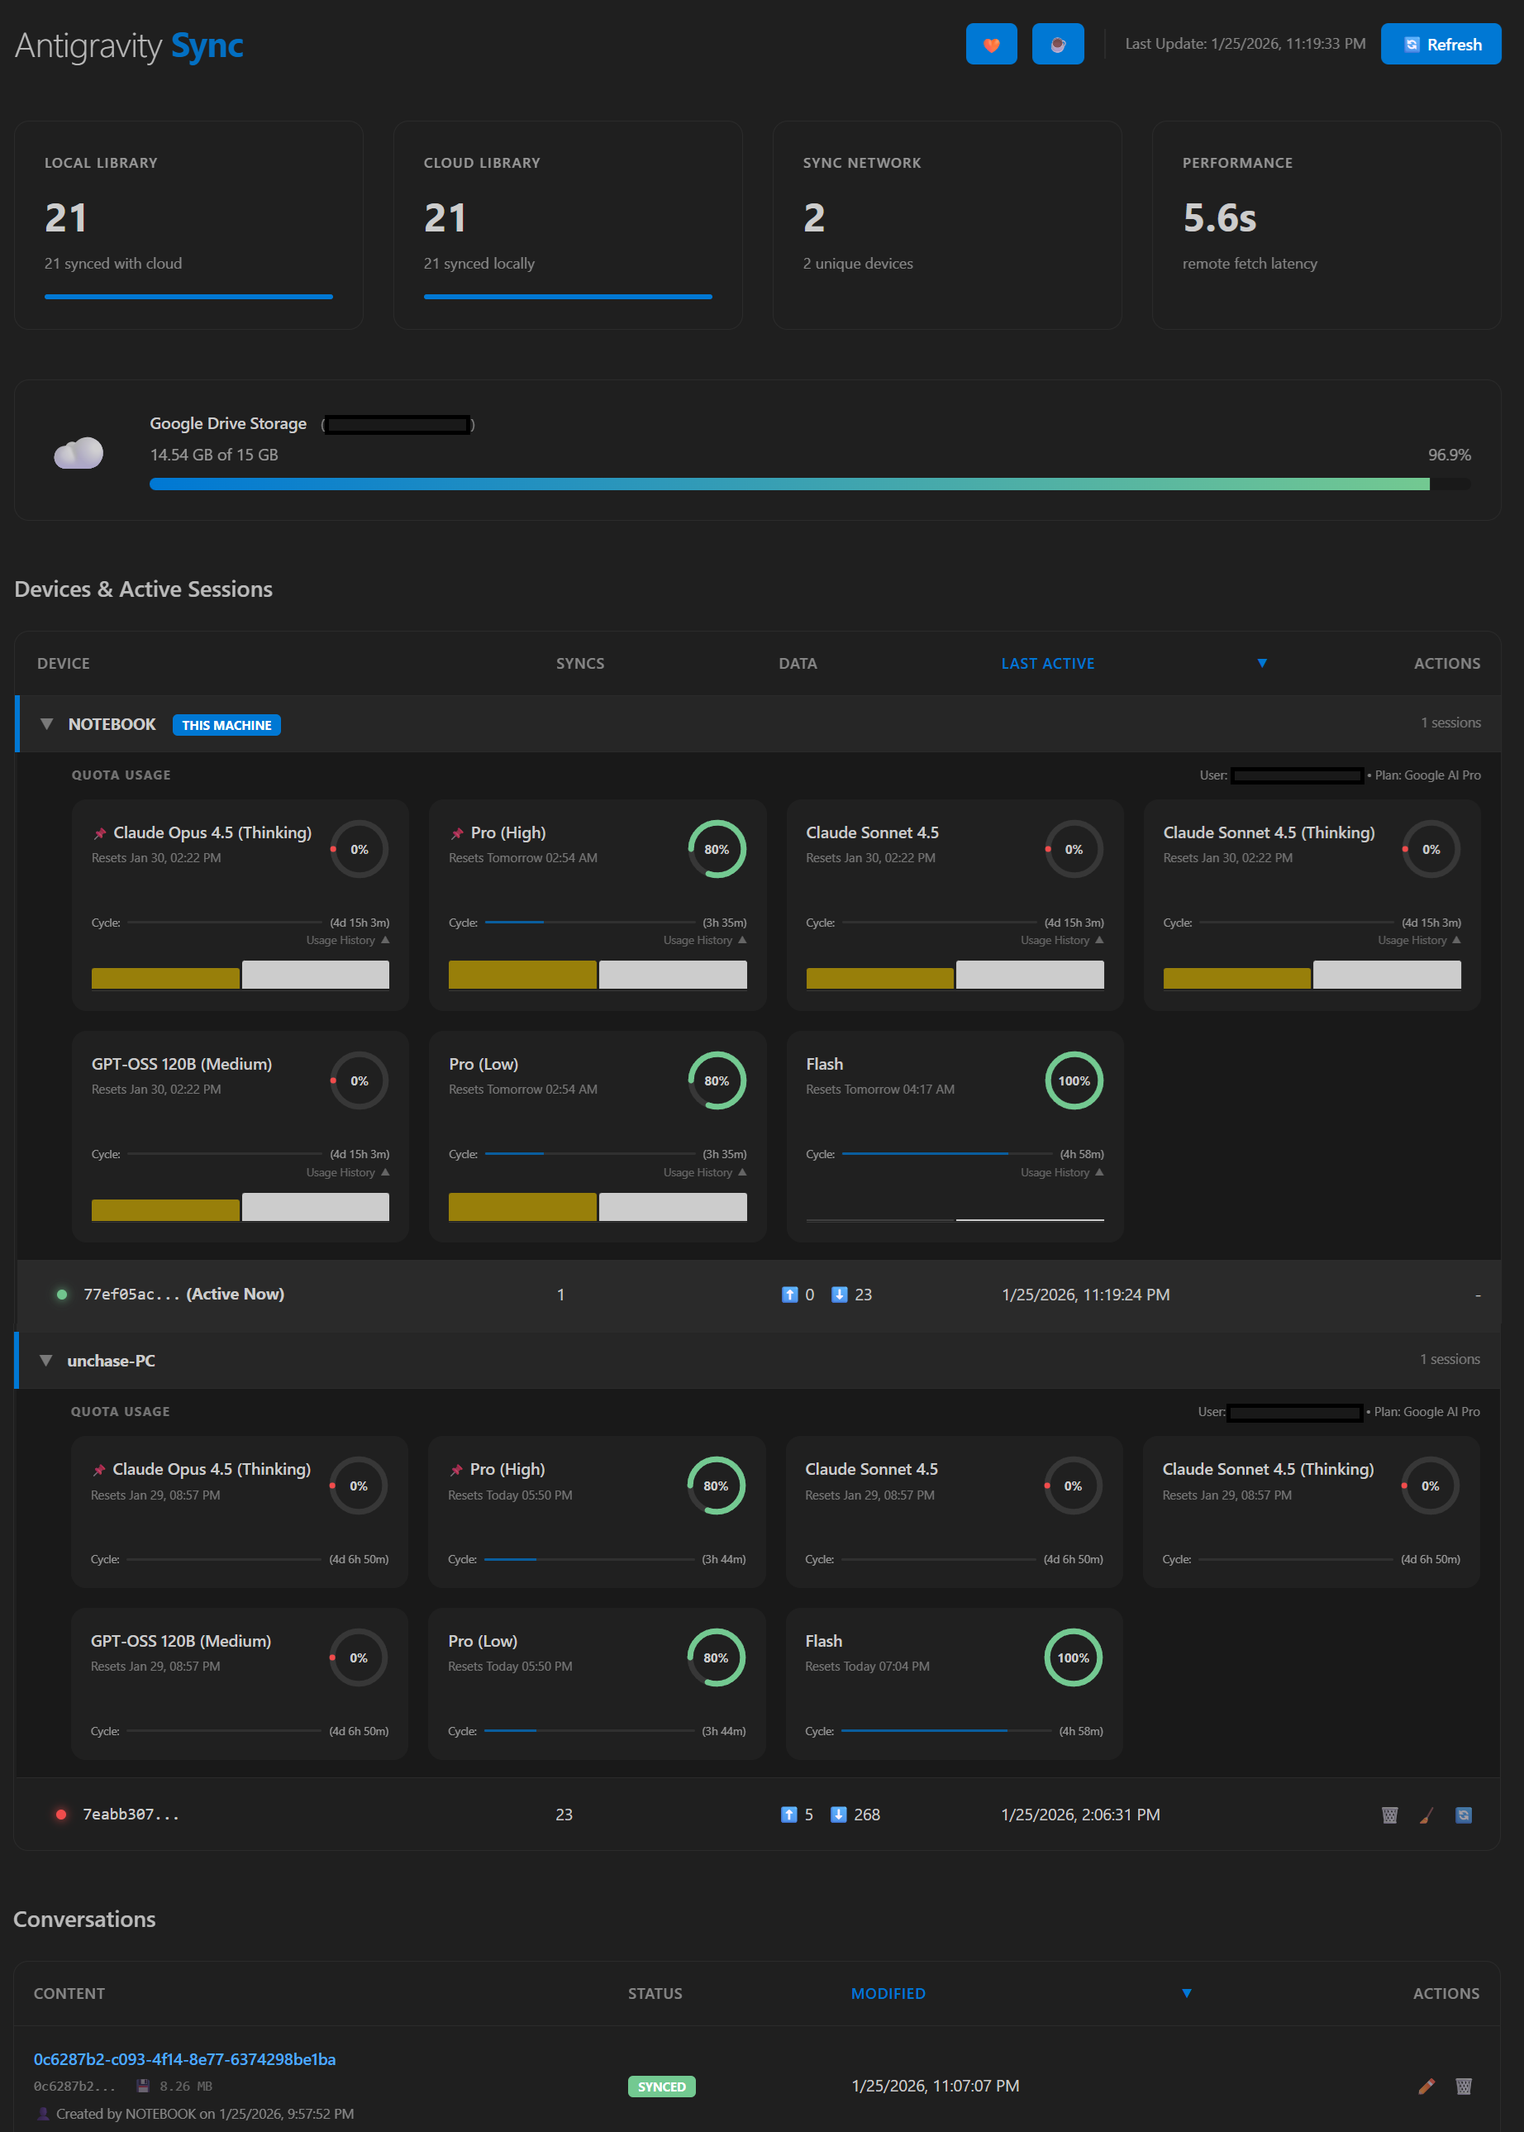
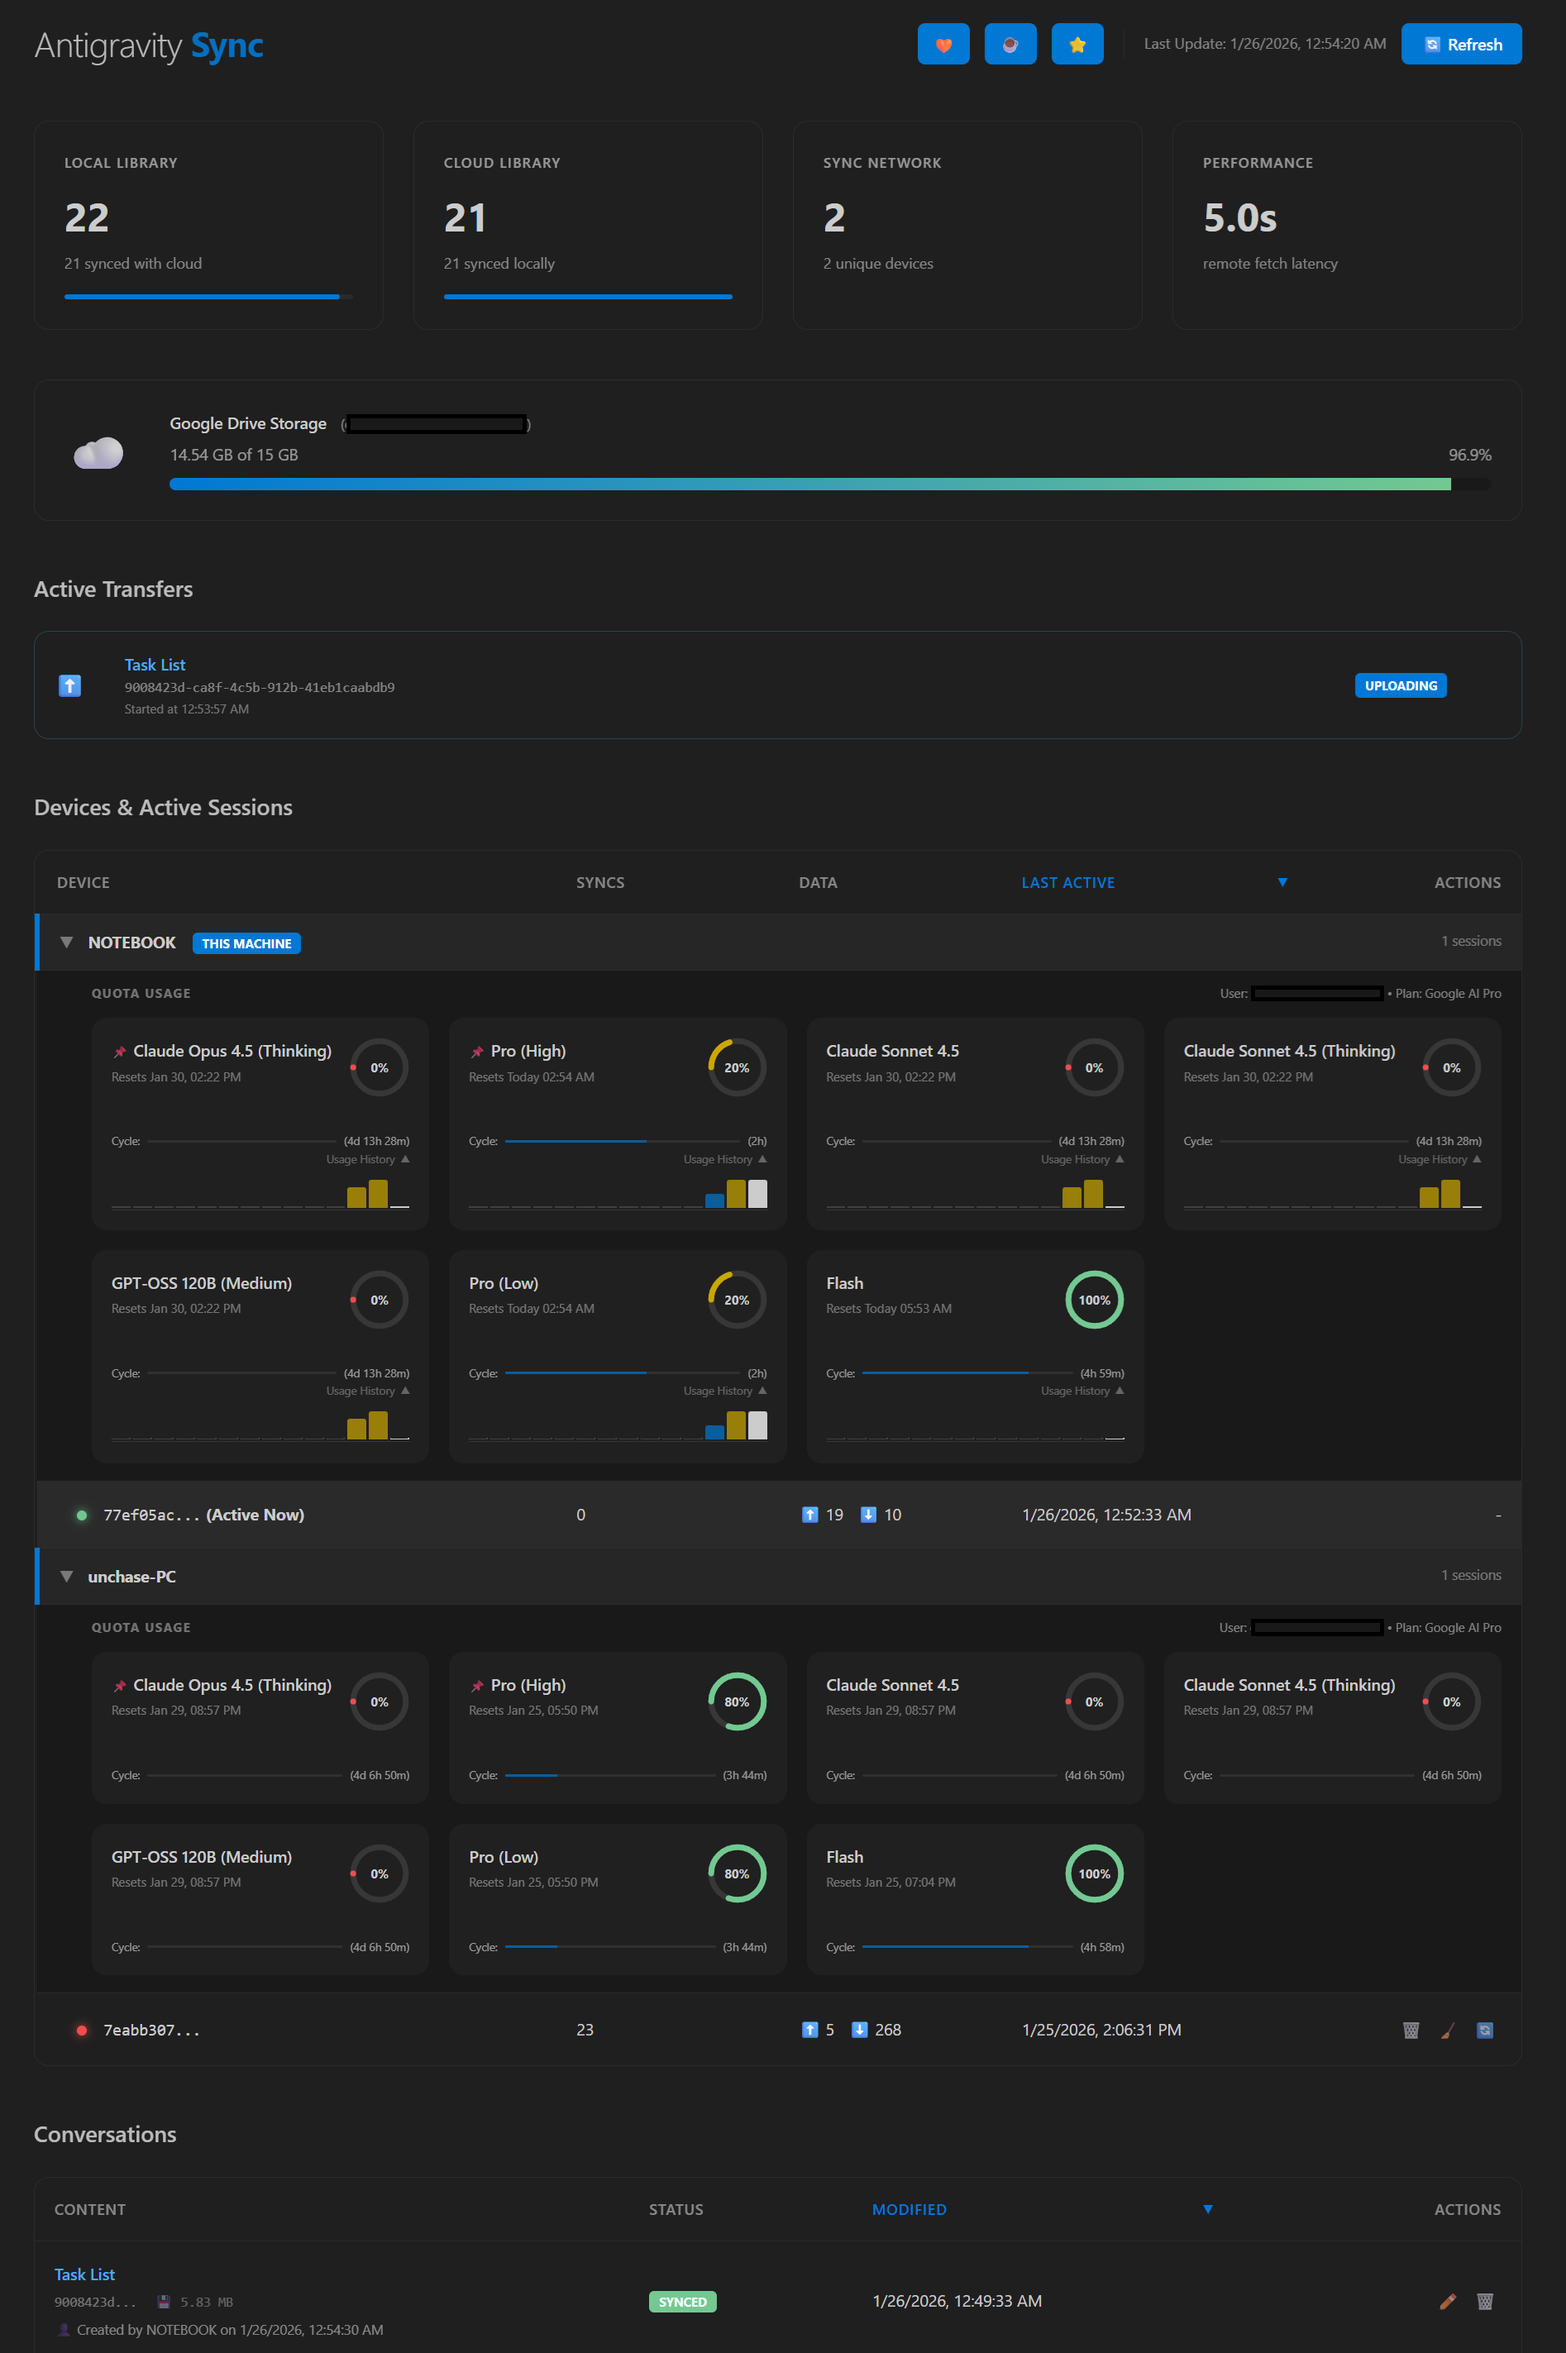
feat: enrich conflict resolution metadata, align quota history charts

diff --git a/src/sync.ts b/src/sync.ts
@@ -45,6 +45,10 @@ export interface SyncConflict {
     remoteModified: string;
     localHash: string;
     remoteHash: string;
+    localSize?: number;
+    remoteSize?: number;
+    remoteModifiedBy?: string;
+    remoteModifiedByName?: string;
 }
 
 type ConflictResolution = 'keepLocal' | 'keepRemote' | 'keepBoth';
@@ -1461,7 +1465,7 @@ export class SyncManager {
     /**
      * Get local conversations with metadata (Async)
      */
-    private async getLocalConversationsAsync(): Promise<Array<{ id: string; title: string; lastModified: string; hash: string }>> {
+    private async getLocalConversationsAsync(): Promise<Array<{ id: string; title: string; lastModified: string; hash: string; size: number }>> {
         // Reuse utils logic to ensure consistent title extraction
         const items = await getConversationsAsync(BRAIN_DIR);
 
@@ -1470,13 +1474,15 @@ export class SyncManager {
             const { overallHash, fileHashes, maxMtime } = await this.computeConversationFileHashesAsync(item.id);
             // Use the actual max mtime of files, falling back to the directory mtime if no files
             const lastModified = maxMtime > 0 ? new Date(maxMtime).toISOString() : item.lastModified.toISOString();
+            const size = Object.values(fileHashes).reduce((sum, f) => sum + f.size, 0);
 
             return {
                 id: item.id,
                 title: item.label, // Extracted title from utils
                 lastModified: lastModified,
                 hash: overallHash,
-                files: fileHashes
+                files: fileHashes,
+                size: size
             };
         }));
     }
@@ -1983,7 +1989,7 @@ export class SyncManager {
      */
     private async processSyncItem(
         convId: string,
-        localConversations: Array<{ id: string; title: string; lastModified: string; hash: string }>,
+        localConversations: Array<{ id: string; title: string; lastModified: string; hash: string; size: number }>,
         remoteManifest: SyncManifest,
         lastSyncedDatabase: Map<string, string>, // id -> lastSyncedHash
         result: SyncResult,
@@ -2060,12 +2066,17 @@ export class SyncManager {
 
                 // If one is significantly newer (e.g. > 1 min), adopt it?
                 // Better safe: Conflict.
+                const remoteMachine = remoteManifest.machines?.find(m => m.id === remote.modifiedBy);
                 result.conflicts.push({
                     conversationId: convId,
                     localModified: local.lastModified,
                     remoteModified: remote.lastModified,
                     localHash: local.hash,
-                    remoteHash: remote.hash
+                    remoteHash: remote.hash,
+                    localSize: local.size,
+                    remoteSize: remote.size,
+                    remoteModifiedBy: remote.modifiedBy,
+                    remoteModifiedByName: remoteMachine?.name || remote.createdByName
                 });
             } else if (localChanged && !removeChanged) {
                 // Only local changed -> Push
@@ -2087,12 +2098,19 @@ export class SyncManager {
                 }
             } else {
                 // Both changed (and hashes differ) -> Conflict
+                const remoteMachine = remoteManifest.machines?.find(m => m.id === remote.modifiedBy);
+                const remoteDate = remote.lastModified;
+
                 result.conflicts.push({
                     conversationId: convId,
                     localModified: local.lastModified,
-                    remoteModified: remote.lastModified,
+                    remoteModified: remoteDate,
                     localHash: local.hash,
-                    remoteHash: remote.hash
+                    remoteHash: remote.hash,
+                    localSize: local.size,
+                    remoteSize: remote.size,
+                    remoteModifiedBy: remote.modifiedBy,
+                    remoteModifiedByName: remoteMachine?.name || remote.createdByName
                 });
             }
         }

diff --git a/src/conflicts.ts b/src/conflicts.ts
@@ -2,7 +2,7 @@ import * as vscode from 'vscode';
 import * as fs from 'fs';
 import * as path from 'path';
 
-import { formatRelativeTime } from './utils';
+import { formatRelativeTime, formatSize, getDirectorySize } from './utils';
 import { LocalizationManager } from './l10n/localizationManager';
 
 const lm = LocalizationManager.getInstance();
@@ -25,6 +25,7 @@ export async function resolveConflictsCommand(brainDir: string, convDir: string)
         timestamp: string;
         title: string;
         lastModified: Date;
+        size: number;
     }[] = [];
 
     const conflictRegex = /^(.*)-conflict-(\d+)$/;
@@ -56,7 +57,8 @@ export async function resolveConflictsCommand(brainDir: string, convDir: string)
                     originalId: originalId,
                     timestamp: match[2],
                     title: title,
-                    lastModified: stats.mtime
+                    lastModified: stats.mtime,
+                    size: getDirectorySize(path.join(brainDir, dir))
                 });
             }
         }
@@ -73,7 +75,7 @@ export async function resolveConflictsCommand(brainDir: string, convDir: string)
     // 2. Show QuickPick to select a conflict pair to resolve
     const items = conflicts.map(c => ({
         label: `$(diff) ${c.title}`,
-        description: lm.t("Conflict copy from {0}", formatRelativeTime(c.lastModified.toISOString())),
+        description: lm.t("{0} • {1}", formatRelativeTime(c.lastModified.toISOString()), formatSize(c.size)),
         detail: lm.t("Original ID: {0} | Conflict ID: {1}", c.originalId, c.conflictId),
         conflict: c
     }));
@@ -91,9 +93,21 @@ export async function resolveConflictsCommand(brainDir: string, convDir: string)
     const keepConflict = lm.t('Keep Conflict (Overwrite Original)');
     const cancel = lm.t('Cancel');
 
+    const originalPath = path.join(brainDir, c.originalId);
+    const originalSize = getDirectorySize(originalPath);
+    const originalStats = fs.statSync(originalPath);
+
     const action = await vscode.window.showWarningMessage(
         lm.t("Resolve conflict for \"{0}\"?", c.title),
-        { modal: true, detail: lm.t("Conflict copy: {0}\nOriginal: {1}", c.conflictId, c.originalId) },
+        {
+            modal: true,
+            detail: [
+                lm.t("Conflict Copy: {0} ({1})", formatSize(c.size), lm.formatDateTime(c.lastModified)),
+                lm.t("Original: {0} ({1})", formatSize(originalSize), lm.formatDateTime(originalStats.mtime)),
+                '',
+                lm.t("Choose which version to keep. The other will be permanently deleted.")
+            ].join('\n')
+        },
         keepOriginal,
         keepConflict,
         cancel

diff --git a/src/quota/syncStatsWebview.ts b/src/quota/syncStatsWebview.ts
@@ -612,13 +612,24 @@ export class SyncStatsWebview {
                                         dailyMap.set(d, Math.max(cur, p.usage));
                                     });
 
-                                    // Convert to sorted array (last 7 days max to avoid scrolling)
-                                    const sortedDays = Array.from(dailyMap.entries())
-                                        .map(([date, usage]) => ({ date, usage, ts: new Date(date).getTime() }))
-                                        .sort((a, b) => a.ts - b.ts);
+                                    // Generate last 14 days (including today) to ensure alignment across all models
+                                    const daysToShow = [];
+                                    const today = new Date();
+                                    // Reset time part to avoid issues? toLocaleDateString usually ignores time but good to be consistent
+                                    // Actually, we just need the date string key
 
-                                    // Take last 7 days
-                                    const daysToShow = sortedDays.slice(-14); // Show last 14 bars max
+                                    for (let i = 13; i >= 0; i--) {
+                                        const d = new Date(today);
+                                        d.setDate(today.getDate() - i);
+                                        const dateKey = d.toLocaleDateString();
+
+                                        const usage = dailyMap.get(dateKey) || 0;
+                                        daysToShow.push({
+                                            date: d.toISOString(),
+                                            usage: usage,
+                                            ts: d.getTime()
+                                        });
+                                    }
 
                                     if (daysToShow.length > 0) {
                                         // Draw bars

diff --git a/src/extension.ts b/src/extension.ts
@@ -6,7 +6,7 @@ import archiver from 'archiver';
 import extract from 'extract-zip';
 import { GoogleAuthProvider } from './googleAuth';
 import { SyncManager } from './sync';
-import { getConversationsAsync, ConversationItem } from './utils';
+import { getConversationsAsync, ConversationItem, formatSize } from './utils';
 import { resolveConflictsCommand } from './conflicts';
 import { DiagnosticsManager } from './diagnostics/diagnosticsManager';
 import { LocalizationManager } from './l10n/localizationManager';
@@ -330,8 +330,20 @@ export async function activate(context: vscode.ExtensionContext) {
 
                 // Handle conflicts
                 for (const conflict of result.conflicts) {
+                    const localDate = lm.formatDateTime(new Date(conflict.localModified));
+                    const remoteDate = lm.formatDateTime(new Date(conflict.remoteModified));
+                    const localSizeStr = formatSize(conflict.localSize);
+                    const remoteSizeStr = formatSize(conflict.remoteSize);
+
+                    const msg = [
+                        lm.t('Conflict detected.'),
+                        lm.t('Local: {0}, {1}', localDate, localSizeStr),
+                        lm.t('Remote: {0}, {1} (by {2})', remoteDate, remoteSizeStr, conflict.remoteModifiedByName || conflict.remoteModifiedBy || 'Unknown'),
+                        lm.t('Hashes: L={0} / R={1}', conflict.localHash.substring(0, 7), conflict.remoteHash.substring(0, 7))
+                    ].join('\n');
+
                     const choice = await vscode.window.showWarningMessage(
-                        lm.t('Conflict detected for conversation. Local and remote versions differ.'),
+                        msg,
                         { modal: true },
                         lm.t('Keep Local'),
                         lm.t('Keep Remote'),

diff --git a/src/utils.ts b/src/utils.ts
@@ -176,3 +176,42 @@ export function formatDuration(ms: number): string {
 
     return parts.join(' ');
 }
+
+/**
+ * Format bytes to human readable string
+ */
+export function formatSize(bytes?: number): string {
+    if (bytes === undefined || bytes === null) return '0 B';
+    const units = ['B', 'KB', 'MB', 'GB'];
+    let size = bytes;
+    let unitIndex = 0;
+    while (size >= 1024 && unitIndex < units.length - 1) {
+        size /= 1024;
+        unitIndex++;
+    }
+    return `${size.toFixed(1)} ${units[unitIndex]}`;
+}
+
+/**
+ * Get total size of a directory recursively
+ */
+export function getDirectorySize(dirPath: string): number {
+    let total = 0;
+    if (!fs.existsSync(dirPath)) return 0;
+
+    try {
+        const files = fs.readdirSync(dirPath);
+        for (const file of files) {
+            const filePath = path.join(dirPath, file);
+            const stats = fs.statSync(filePath);
+            if (stats.isDirectory()) {
+                total += getDirectorySize(filePath);
+            } else {
+                total += stats.size;
+            }
+        }
+    } catch {
+        // ignore access errors
+    }
+    return total;
+}

diff --git a/CHANGELOG.md b/CHANGELOG.md
@@ -5,6 +5,12 @@ All notable changes to the **Antigravity Storage Manager** extension will be doc
 The format is based on [Keep a Changelog](https://keepachangelog.com/en/1.0.0/),
 and this project adheres to [Semantic Versioning](https://semver.org/spec/v2.0.0.html).
 
+## [0.9.4] - 2026-01-26
+### Sync & Dashboard
+- **Conflict Resolution Enrichment**: The manual conflict resolution dialog now displays detailed file size and modification time comparisons for both versions, assisting in better decision-making.
+- **Quota History Alignment**: Quota usage history charts are now perfectly aligned across all models by filling in missing days with zero usage (standard 14-day window).
+- **Localization**: Added full native translations for the new conflict metadata strings across 14 additional languages (Arabic, Czech, German, Spanish, French, Italian, Japanese, Korean, Polish, Portuguese, Turkish, Vietnamese, Chinese Simplified, and Chinese Traditional).
+
 ## [0.9.3] - 2026-01-26
 ### Community & Support
 - **Complete GitHub Star Integration**: Added the "Star on GitHub" (⭐) button to all remaining UI touchpoints:
